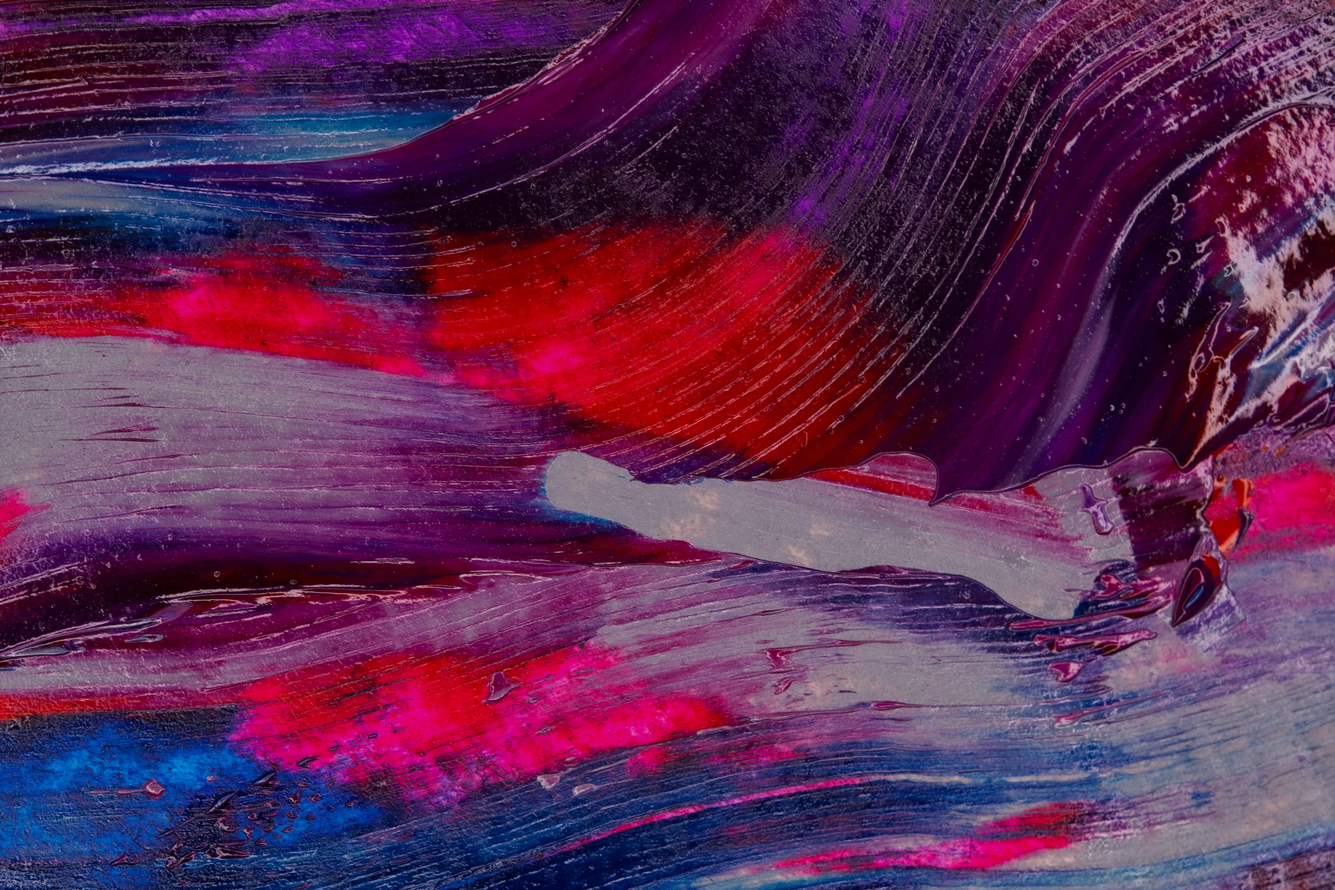
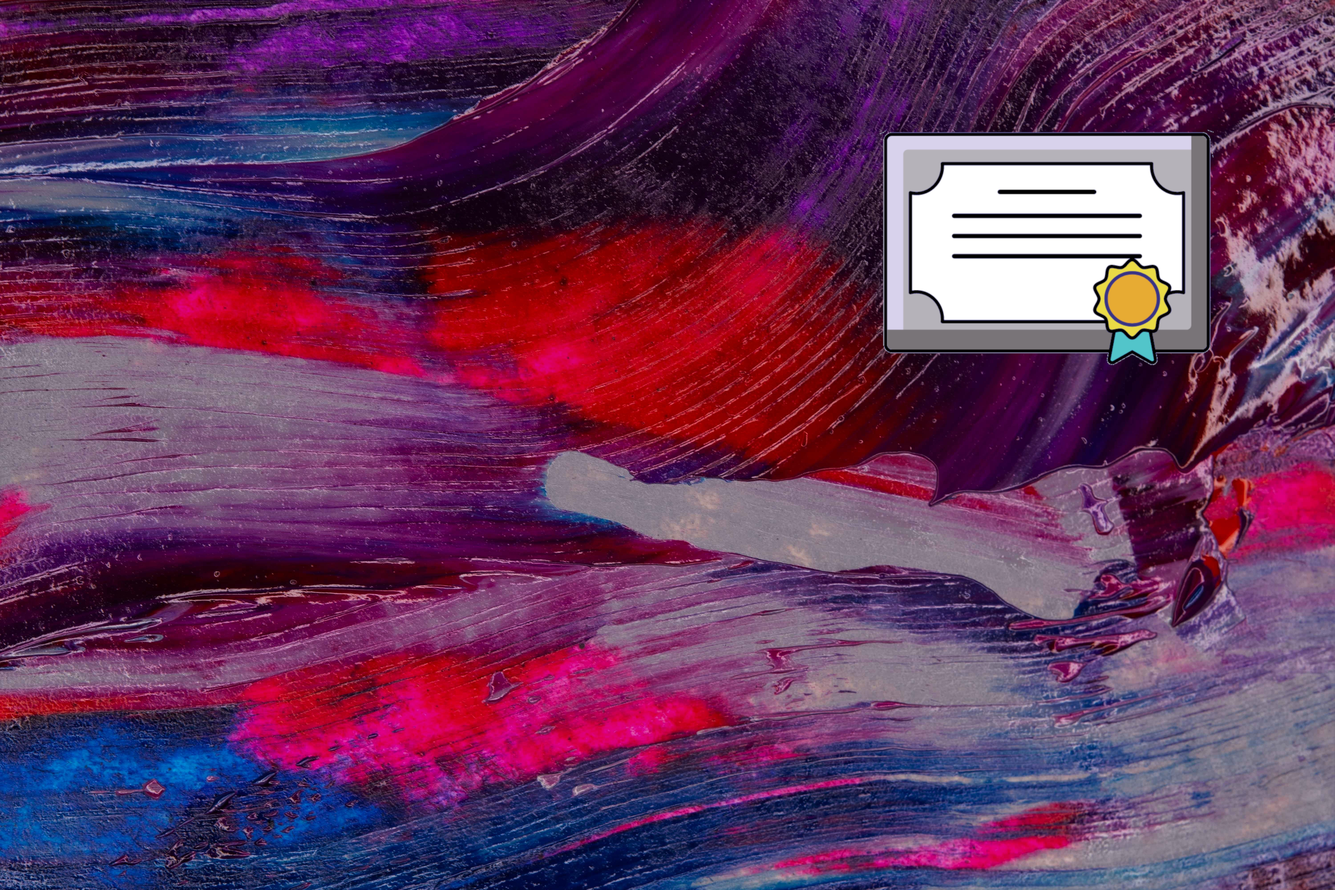
Finish the section of description to specificate all the functions for POAs in landing

Changed region(s): [[0.6545, 0.125, 0.935, 0.4062]]

diff --git a/src/components/descriptionpoa.component.js b/src/components/descriptionpoa.component.js
@@ -1,0 +1,60 @@
+import React from "react";
+import croppedCA from '../assets/img/landing/sponsorsSection/cropped-CA.png';
+import Union from '../assets/img/landing/sponsorsSection/Union.png';
+import CloudMexColor from '../assets/img/landing/sponsorsSection/cloudMex-logo-color.png';
+import certificate from  '../assets/img/landing/descriptionSection/certificate.png';
+import story from  '../assets/img/landing/descriptionSection/storyofwork.png';
+import share from  '../assets/img/landing/descriptionSection/sharepoa.png';
+
+import { useTranslation } from "react-i18next";
+
+function Sponsors() {
+  const [t, i18n] = useTranslation("global");
+  
+
+  return (
+    <section className="open-sans  h-[823px] lg:h-[594px] overflow-hidden bg-grayColor  " >
+      <div className="w-full dark:flex flex-row flex-wrap justify-center my-16" >
+        <div className=" w-full flex justify-around flex-wrap lg:flex-nowrap">
+        <div className="w-full lg:w-1/3 lg:ml-12">
+          <img
+              className="h-[200px]  w-[300px] lg:w-[300px] mx-auto  lg:mx-0 lg:h-[275px] bg-center"
+              src={certificate}
+              fill="#000"
+              alt={certificate}
+            />
+            <p className="text-[#5f014f] font-clash-grotesk font-semibold pt-4 text-2xl lg:text-4xl capitalize w-full  my-2 mx-auto  text-center lg:text-left">{t("Landingpoa.Certificate")}</p>
+            <li className="desktop:text-2xl text-[#000] font-open-sans font-semibold text-base normal-case   w-5/6  my-2 mx-auto lg:mx-0 text-center lg:text-left">{t("Landingpoa.CertificateSub")}</li>
+            <li className="desktop:text-2xl text-[#000] font-open-sans font-semibold text-base normal-case   w-5/6  my-2 mx-auto lg:mx-0 text-center lg:text-left">{t("Landingpoa.CertificateSub1")}</li>
+            <li className="desktop:text-2xl text-[#000] font-open-sans font-semibold text-base normal-case   w-5/6  my-2 mx-auto lg:mx-0 text-center lg:text-left">{t("Landingpoa.CertificateSub2")}</li>
+          </div>
+          <div className="w-full lg:w-1/3 lg:ml-12">
+          <img
+              className="h-[200px]  w-[300px] lg:w-[335px] mx-auto  lg:mx-0 lg:h-[275px] bg-center"
+              src={story}
+              fill="#000"
+              alt={story}
+            />
+            <p className="text-[#5f014f] font-clash-grotesk font-semibold pt-4 text-2xl lg:text-4xl capitalize w-full  my-2 mx-auto  text-center lg:text-left">{t("Landingpoa.Story")}</p>
+            <li className="desktop:text-2xl text-[#000] font-open-sans font-semibold text-base normal-case   w-5/6  my-2 mx-auto lg:mx-0 text-center lg:text-left">{t("Landingpoa.StorySub")}</li>
+            <li className="desktop:text-2xl text-[#000] font-open-sans font-semibold text-base normal-case   w-5/6  my-2 mx-auto lg:mx-0 text-center lg:text-left">{t("Landingpoa.StorySub1")}</li>
+          </div>
+          <div className="w-full lg:w-1/3 lg:ml-12">
+          <img
+              className="h-[200px]  w-[300px] lg:w-[275px] mx-auto  lg:mx-0 lg:h-[275px] bg-center"
+              src={share}
+              fill="#000"
+              alt={share}
+            />
+            <p className="text-[#5f014f] font-clash-grotesk font-semibold pt-4 text-2xl lg:text-4xl capitalize w-full  my-2 mx-auto  text-center lg:text-left">{t("Landingpoa.Share")}</p>
+            <li className="desktop:text-2xl text-[#000] font-open-sans font-semibold text-base normal-case   w-3/4  my-2 mx-auto lg:mx-0 text-center lg:text-left">{t("Landingpoa.ShareSub")}</li>
+            <li className="desktop:text-2xl text-[#000] font-open-sans font-semibold text-base normal-case   w-3/4  my-2 mx-auto lg:mx-0 text-center lg:text-left">{t("Landingpoa.ShareSub1")}</li>
+          </div>
+        </div>
+      </div>
+    </section>
+  );
+}
+
+
+export default Sponsors;

diff --git a/src/components/POAStepsCard.component.js b/src/components/POAStepsCard.component.js
@@ -1,0 +1,72 @@
+import React, {  useEffect, useState } from "react";
+import PropTypes from "prop-types";
+import wallet from '../assets/img/Wallet.png';
+import pincel from '../assets/img/Pincel.png';
+import colecciones from '../assets/img/Colecciones.png';
+import label from '../assets/img/Label.png';
+import { useTranslation } from "react-i18next";
+import { nearSignIn } from "../utils/near_interaction";
+import { Redirect } from "react-router-dom";
+import { useWalletSelector } from "../utils/walletSelector";
+
+function NftStepsCard({card}) {
+
+  const { selector, modal, accounts, accountId } = useWalletSelector();
+  const [t, i18n] = useTranslation("global");
+  const [stateLogin, setStateLogin] = useState(false);
+  const [isShown, setIsShown] = useState(false);
+
+  useEffect(() => {
+    (async () => {
+      setStateLogin(accountId !=null ? true : false);
+    })();
+  }, [selector]);
+
+  const handleSignIn = () =>{
+    modal.show()
+  }
+
+  const handleRedirect = (route) =>{
+    window.location.href = route
+  }
+
+  return (
+    <div className="w-full lg:w-1/4 mt-6 h-[107px] hover:lg:h-[132px] transition-[height] duration-100 flex flex-col pt-6 pb-8 lg:mt-2 justify-center lg:justify-start  mx-auto lg:mx-2 p-2 bg-white2 rounded-[12px] shadow-md" data-aos="fade-down" data-aos-delay="250"
+    onMouseEnter={() => setIsShown(true)}
+    onMouseLeave={() => setIsShown(false)}
+    onClick={stateLogin ? () => handleRedirect(card.redirect) : () => handleSignIn() }
+     >
+      <div className="flex flex-row   ">
+        <div className="mx-auto  w-1/3 mt-2 lg:mt-1">
+        <img
+          className="h-[60px] w-[60px] mx-auto absolute z-20 ml-[25px]"
+          src={card.imgSrc}
+        />
+        <img
+          className="h-[100px] w-[100px] mx-auto absolute z-10  -mt-[17px]"
+          src={card.bgSrc}
+        />
+      </div>
+
+        <div className="rounded-3xl w-2/3 h-[45px] mx-4  text-left mt-2 ">
+          <div className="flex flex-col text-left h-full text-black leading-6 rounded-3xl justify-center shadow-s font-open-sans font-semibold text-xl leading buttonsNFTSection">
+            {card.text}
+          </div>
+        </div>
+      </div>
+      {isShown && (
+            <button className="flex flex-row text-left h-full text-[#ff00f0] leading-6 rounded-3xl justify-center shadow-s font-open-sans font-semibold text-base mt-4 leading buttonsNFTSection mx-auto duration-100"
+            >
+              {card.sub}
+              <img
+            className="h-[24px] w-[24px] mx-auto ml-[5px]"
+            src={card.arrow}
+          />
+            </button>
+          )}
+    </div>
+  );
+}
+
+
+export default NftStepsCard;

diff --git a/src/components/POASteps.component.js b/src/components/POASteps.component.js
@@ -11,8 +11,8 @@ import Ellipse_7 from "../assets/img/landing/thirdSection/Ellipse_7.png";
 import Money_Icon from "../assets/img/landing/thirdSection/shareicon.png";
 import NFTImage_Icon from "../assets/img/landing/thirdSection/NFTImage_Icon2.png";
 import Wallet_Icon from "../assets/img/landing/thirdSection/Wallet_Icon2.png";
-import rigth_arrow from "../assets/img/landing/thirdSection/arrow-right.png";
-import NftStepsCard from "./NftStepsCard.component";
+import rigth_arrow from "../assets/img/landing/thirdSection/arrow-right-purple.png";
+import POAStepsCard from "./POAStepsCard.component";
 import { render } from "@testing-library/react";
 import { Account } from "near-api-js";
 import { useWalletSelector } from "../utils/walletSelector";
@@ -80,7 +80,7 @@ function NftSteps(props) {
         <div className="w-full flex flex-row flex-wrap lg:flex-nowrap mt-[12px] lg:mt-[50px]">
         {steps.map((card, i) => {
             return (
-            <NftStepsCard card={card} key={i}/>
+            <POAStepsCard card={card} key={i}/>
             )
           })}
 

diff --git a/src/views/Landing.poa.view.js b/src/views/Landing.poa.view.js
@@ -7,7 +7,7 @@ import POASteps from "../components/POASteps.component";
 import Statisct from "../components/statistc.component";
 import Popular_col from "../components/PopularCollections.component";
 import POAs from "../components/POAs.component";
-import Sponsors from "../components/sponsors.component";
+import Description from "../components/descriptionpoa.component";
 import Aos from "aos";
 import "aos/dist/aos.css";
 import { useTranslation } from "react-i18next";
@@ -27,8 +27,8 @@ export default function LandingPoA() {
   return (
     <div>
       <POAHero />
+      <Description />
       <POASteps/>
-      <Sponsors />
     </div>
   );
 }

diff --git a/src/components/POA.component.js b/src/components/POA.component.js
@@ -7,6 +7,7 @@ import { useTranslation } from "react-i18next";
 import verifyImage from '../assets/img/Check.png';
 import rocket from '../assets/img/Rocket.png';
 import arrowRight from '../assets/img/landing/firstSection/ARROW.png';
+import certificado from '../assets/img/landing/firstSection/certificado.png';
 import plus from '../assets/img/landing/firstSection/plus.png';
 
 
